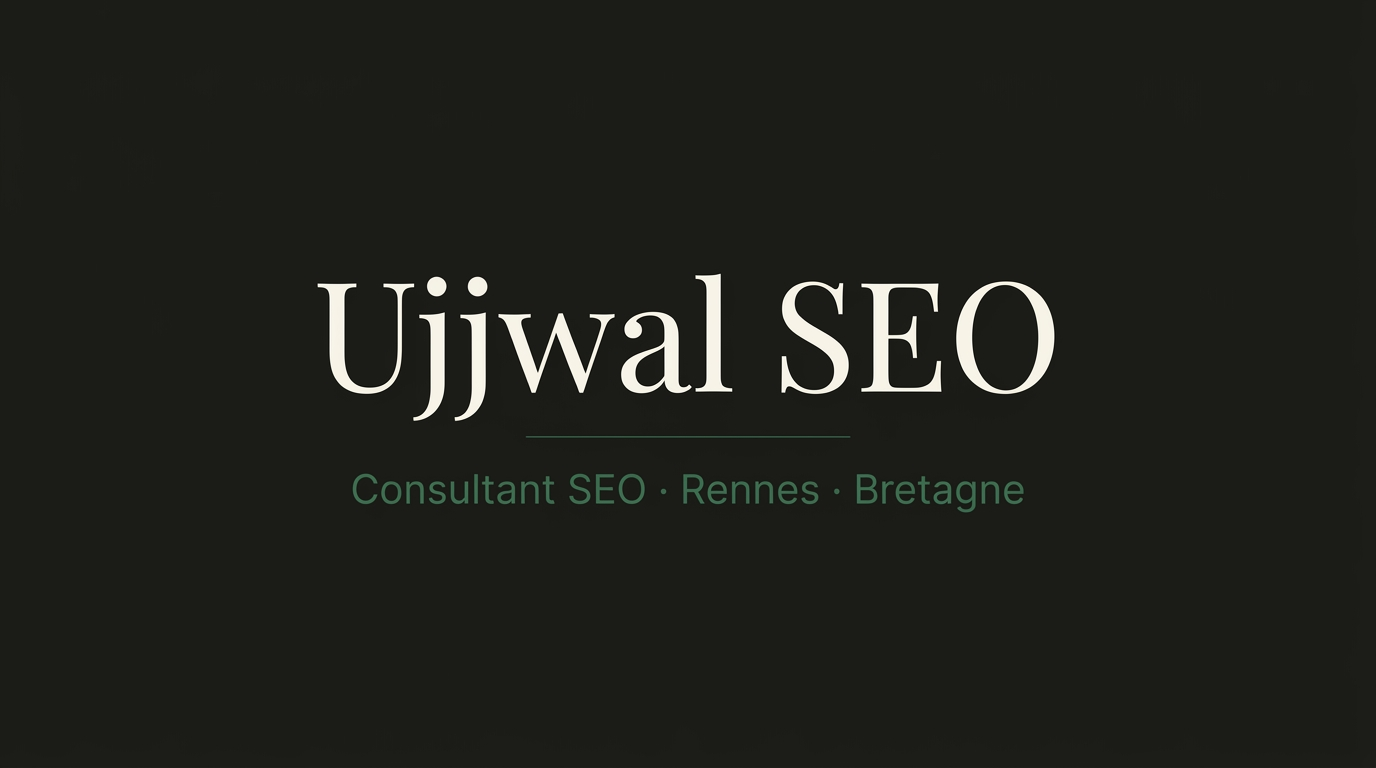
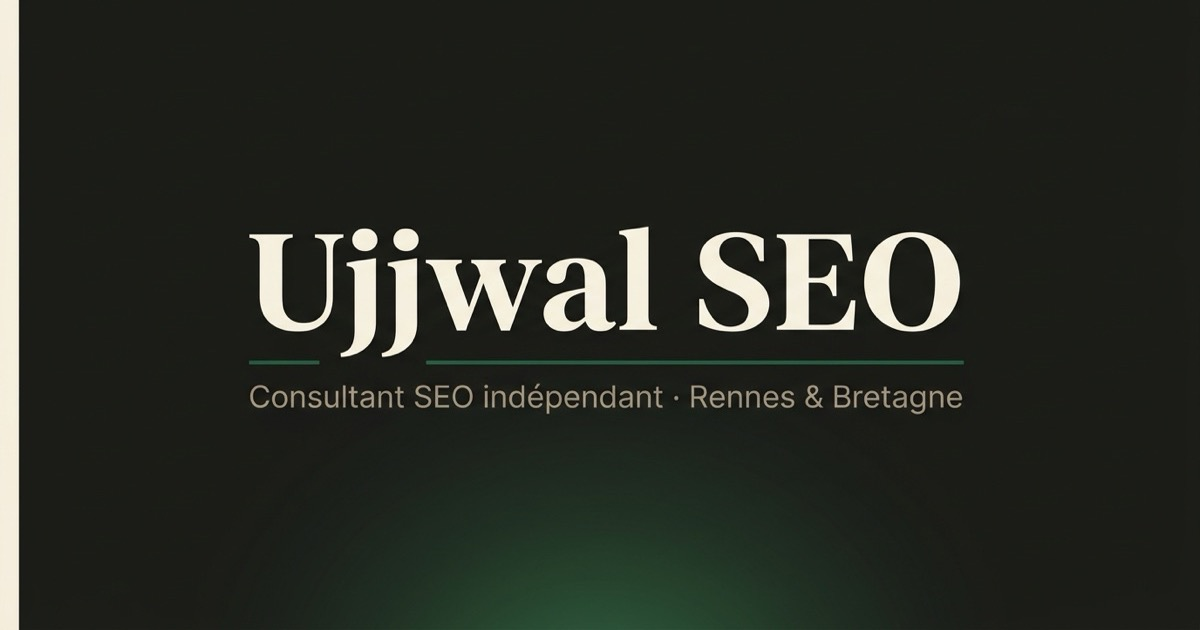
feat: Phase 14 Batch 3 — branded OG image + blog featured images
OG Image:
- Replace generic og-default.jpg (1376x768) with branded version (1200x630)
- Dark charcoal background, Ujjwal SEO serif wordmark, green accent, cream subtitle
- 58KB optimized file size

Blog featured images (6 new images at 800x450px):
- /assets/blog/audit-seo.jpg
- /assets/blog/balises-title-meta.jpg
- /assets/blog/consultant-vs-agence.jpg
- /assets/blog/core-web-vitals.jpg
- /assets/blog/seo-local-bretagne.jpg
- /assets/blog/maillage-interne.jpg

Blog post frontmatter:
- Added featuredImage + featuredImageAlt to all 6 .md files

Blog index:
- Pass featuredImage + featuredImageAlt props to BlogCard
  (was missing — cards showed no images despite component support)

Verified:
- OG image: exactly 1200x630
- All 6 blog images exist in public/assets/blog/
- All 6 blog cards show images in dist/blog/index.html
- All 6 Article JSON-LD schemas include image field
- 0 broken image refs
- Build: 24 pages, 0 errors, 0 warnings

Changed region(s): [[0.2158, 0.3317, 0.8017, 0.6635], [0.3392, 0.8444, 0.6783, 1.0], [0.0, 0.0, 0.0308, 1.0]]

diff --git a/src/content/blog/balises-title-meta-description-guide.md b/src/content/blog/balises-title-meta-description-guide.md
@@ -1,6 +1,8 @@
 ---
 title: "Balises title et méta-descriptions : guide pratique pour optimiser vos snippets Google"
 description: "Les balises title et méta-descriptions sont les premiers éléments que vos prospects voient dans Google. Découvrez comment les rédiger pour maximiser votre taux de clic et votre positionnement."
+featuredImage: "/assets/blog/balises-title-meta.jpg"
+featuredImageAlt: "Représentation graphique des balises title et méta-description dans les résultats Google"
 pubDate: 2025-06-10
 author: "Ujjwal Lage"
 categories: ["SEO On-Page"]

diff --git a/src/content/blog/maillage-interne-strategie-seo.md b/src/content/blog/maillage-interne-strategie-seo.md
@@ -1,6 +1,8 @@
 ---
 title: "Maillage interne : la stratégie SEO sous-estimée qui booste votre référencement"
 description: "Le maillage interne est l'une des leviers SEO les plus puissants et les plus négligés. Découvrez comment structurer les liens entre vos pages pour améliorer votre référencement et l'expérience utilisateur."
+featuredImage: "/assets/blog/maillage-interne.jpg"
+featuredImageAlt: "Schéma du maillage interne : réseau de pages liées pour le référencement SEO"
 pubDate: 2025-05-18
 author: "Ujjwal Lage"
 categories: ["SEO On-Page"]

diff --git a/src/content/blog/audit-seo-guide-complet.md b/src/content/blog/audit-seo-guide-complet.md
@@ -1,6 +1,8 @@
 ---
 title: "Audit SEO : pourquoi en faire un et comment l'interpréter ?"
 description: "L'audit SEO est la première étape de toute stratégie de référencement sérieuse. Découvrez ce qu'il analyse, ce qu'il révèle et comment utiliser ses résultats pour progresser."
+featuredImage: "/assets/blog/audit-seo.jpg"
+featuredImageAlt: "Illustration d'un audit SEO : loupe analysant la structure d'un site web"
 pubDate: 2025-03-15
 author: "Ujjwal Lage"
 categories: ["Audit SEO", "SEO Technique"]

diff --git a/src/content/blog/guide-seo-local-bretagne.md b/src/content/blog/guide-seo-local-bretagne.md
@@ -1,6 +1,8 @@
 ---
 title: "SEO Local : le guide complet pour les entreprises bretonnes"
 description: "Tout ce que vous devez savoir sur le SEO local en Bretagne : Google Business Profile, citations locales, mots-clés géolocalisés et stratégies pour dominer les recherches de proximité."
+featuredImage: "/assets/blog/seo-local-bretagne.jpg"
+featuredImageAlt: "Carte de la Bretagne avec un pin de localisation sur Rennes pour le SEO local"
 pubDate: 2025-02-10
 author: "Ujjwal Lage"
 categories: ["SEO Local"]

diff --git a/src/content/blog/core-web-vitals-2025.md b/src/content/blog/core-web-vitals-2025.md
@@ -1,6 +1,8 @@
 ---
 title: "Core Web Vitals en 2025 : comprendre et améliorer vos scores"
 description: "Les Core Web Vitals sont des facteurs de classement Google depuis 2021. Découvrez ce que sont le LCP, l'INP et le CLS, comment les mesurer et comment les améliorer."
+featuredImage: "/assets/blog/core-web-vitals.jpg"
+featuredImageAlt: "Illustration des Core Web Vitals LCP, INP et CLS pour l'optimisation SEO"
 pubDate: 2025-04-22
 author: "Ujjwal Lage"
 categories: ["SEO Technique"]

diff --git a/src/content/blog/consultant-seo-vs-agence-comment-choisir.md b/src/content/blog/consultant-seo-vs-agence-comment-choisir.md
@@ -1,6 +1,8 @@
 ---
 title: "Consultant SEO vs agence SEO : comment choisir en 2025 ?"
 description: "Faut-il faire appel à un consultant SEO indépendant ou à une agence SEO ? Comparatif honnête des avantages et inconvénients de chaque option pour les TPE et PME."
+featuredImage: "/assets/blog/consultant-vs-agence.jpg"
+featuredImageAlt: "Comparaison consultant SEO indépendant versus agence SEO"
 pubDate: 2025-07-08
 author: "Ujjwal Lage"
 categories: ["Stratégie SEO"]
